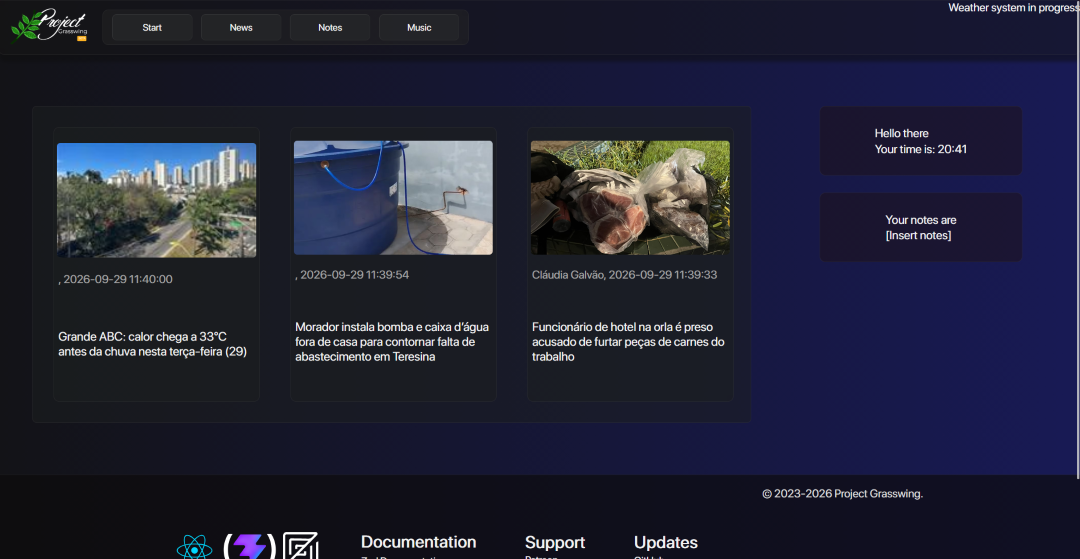
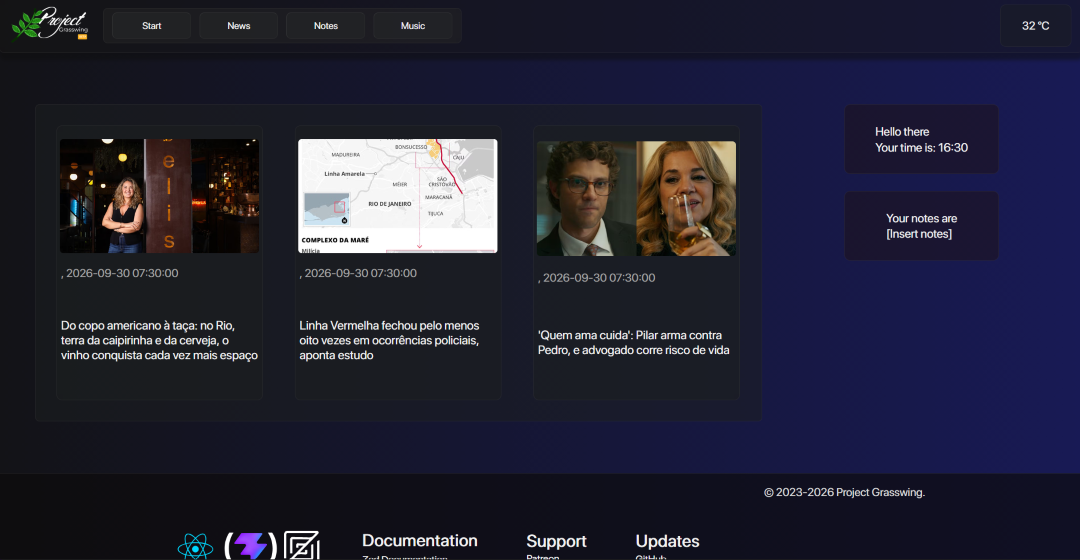
v1.1.4-beta New startpage image and navbar design changes

diff --git a/src/pages/components/navbar.css b/src/pages/components/navbar.css
@@ -38,7 +38,7 @@ a {
     border-style: solid;
     border-color: rgba(73, 73, 73, 0.24);
     height: 0.5in;
-    width: 33.75%;
+    width: 32.95%;
     background-color: rgba(36, 36, 36, 0.514);
 }
 
@@ -56,18 +56,18 @@ a {
 }
 
 .weather-viewer {
-    background-color: #1e101076;
+    background-color: rgba(26, 30, 33, 0.5);
     border-radius: 0.09in;
     border-width: 0.010in;
     border-style: solid;
     border-color: rgba(73, 73, 73, 0.24);
-    width: 7%;
+    width: 6.5%;
     height: 0.6in;
     display: flex;
+    margin-right: 1%;
+    justify-self: flex-end;
     align-items: center;
     justify-content: center;
-    margin-left: auto;
-    margin-right: auto;
     align-self: center;
 
 }
